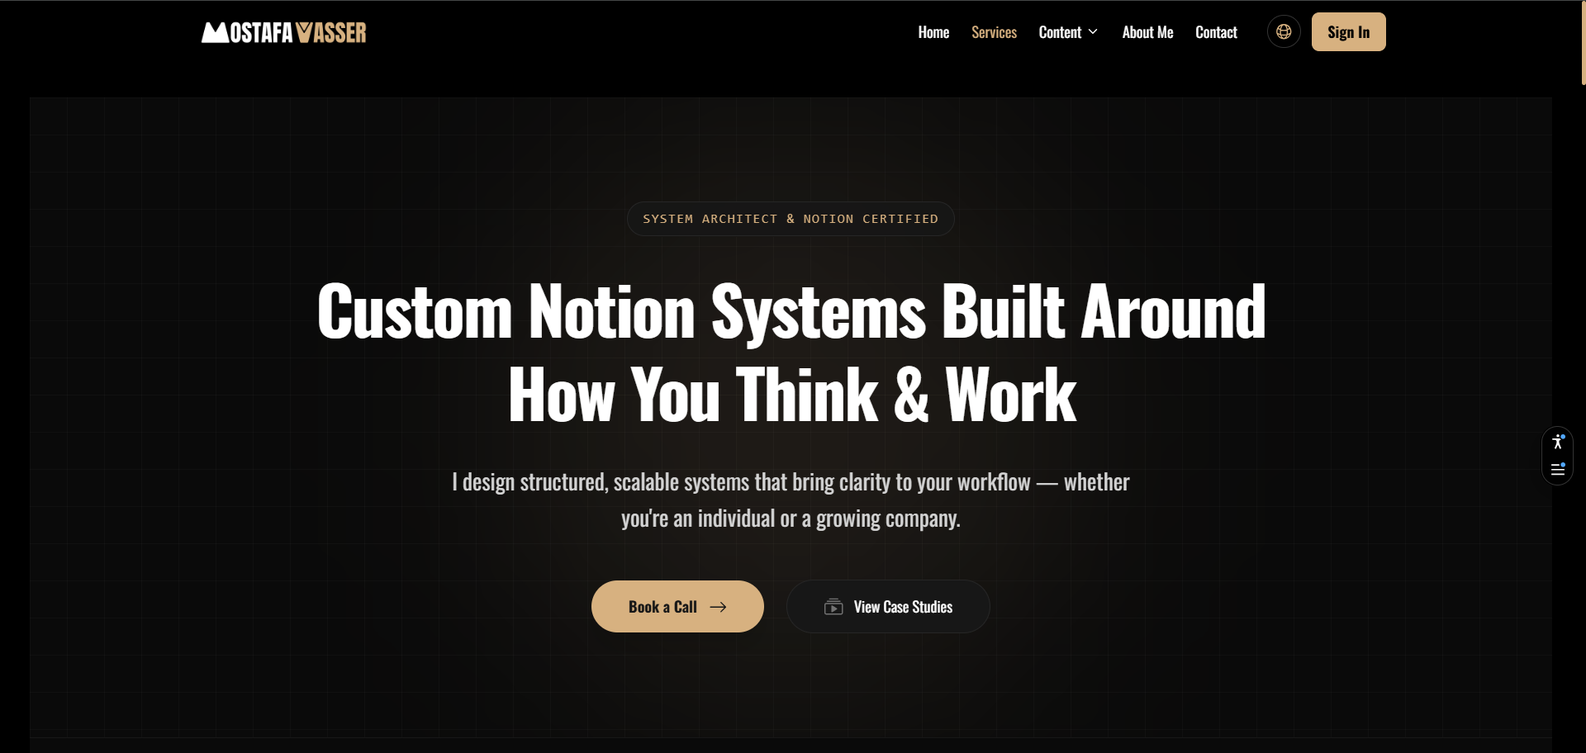
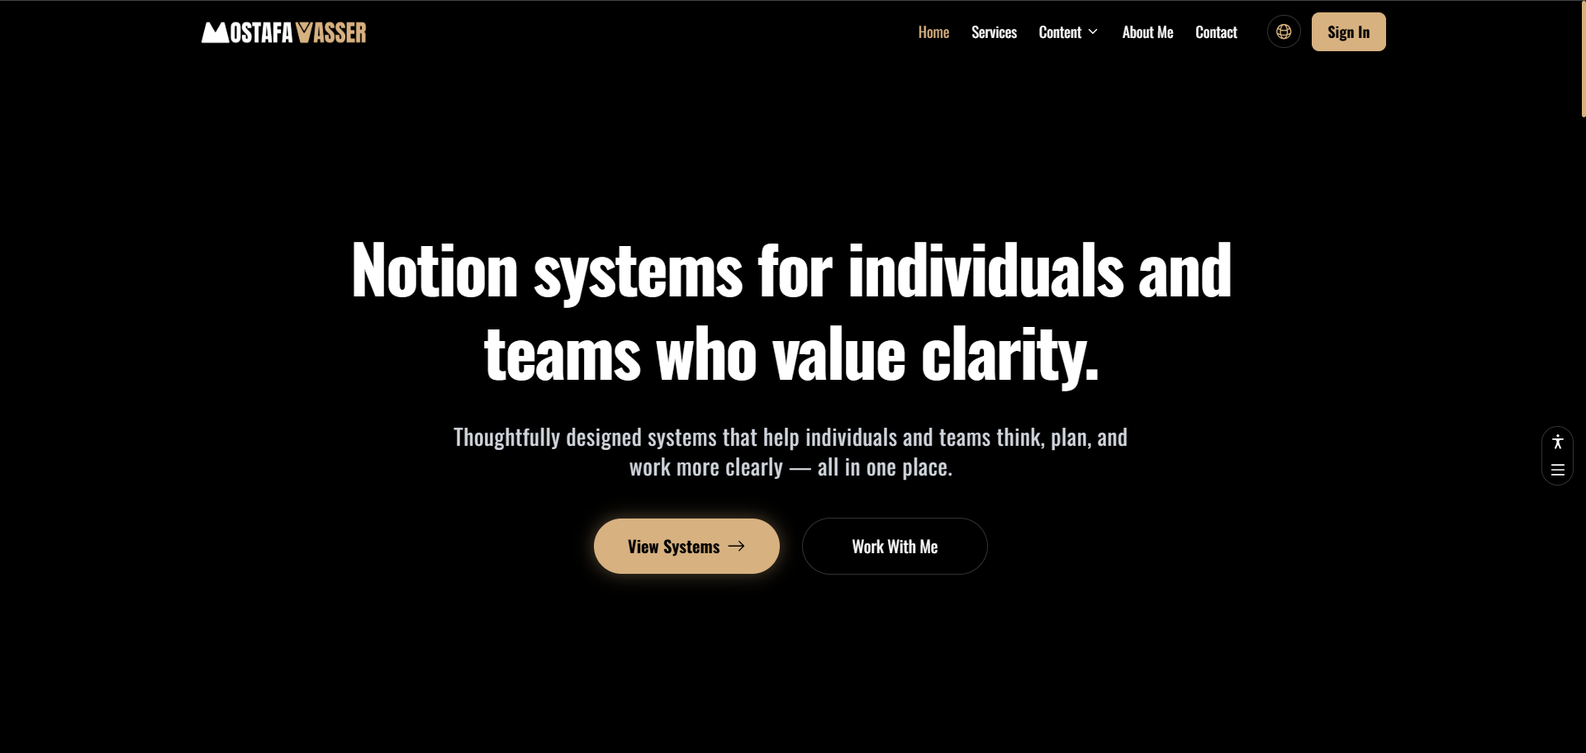
feat: enhance project detail styling, update project data content, and refine homepage layout

Changed region(s): [[0.1875, 0.2763, 0.8125, 0.8596], [0.5625, 0.0307, 0.6562, 0.0614]]

diff --git a/frontend/app/projects/projectsData.js b/frontend/app/projects/projectsData.js
@@ -10,10 +10,10 @@ export const projects = [
         description:
             'تصميم وتطوير صفحة هبوط مؤقتة لجمع بيانات الطلاب المهتمين (الاسم، البريد الإلكتروني، رقم الهاتف) حتى يتم إطلاق الموقع الرسمي، مع مزامنة هذه البيانات لحظياً مع قاعدة بيانات Notion.',
         tags: ['تطوير ويب', 'Notion API', 'تعليم'],
-        color: 'from-emerald-500/10 to-teal-500/5',
-        accent: 'bg-emerald-500',
-        accentText: 'text-emerald-600 dark:text-emerald-400',
-        accentBorder: 'border-emerald-200 dark:border-emerald-500/20',
+        color: 'from-primary-500/10 to-orange-500/5',
+        accent: 'bg-primary-500',
+        accentText: 'text-primary-600 dark:text-orange-400',
+        accentBorder: 'border-primary-200 dark:border-orange-500/20',
         images: [
             '/projects/YuYan Academy/Contact Form.png',
             '/projects/YuYan Academy/Notion DB.png',
@@ -48,10 +48,10 @@ export const projects = [
         description:
             'تطوير معرض أعمال (Portfolio) تعرض خدمات تطوير المواقع، متصلة بـ Notion API لاستقبال طلبات العملاء.',
         tags: ['تطوير ويب', 'Notion API', 'مستقل'],
-        color: 'from-blue-500/10 to-sky-500/5',
-        accent: 'bg-blue-500',
-        accentText: 'text-blue-600 dark:text-blue-400',
-        accentBorder: 'border-blue-200 dark:border-blue-500/20',
+        color: 'from-accent-500/10 to-primary-500/5',
+        accent: 'bg-primary-500',
+        accentText: 'text-primary-600 dark:text-orange-400',
+        accentBorder: 'border-primary-200 dark:border-orange-500/20',
         images: [
             '/projects/Personal Portfolio/HeroSection.png',
             '/projects/Personal Portfolio/Contact Form.png',
@@ -78,6 +78,25 @@ export const projects = [
 - **تحكم فوري:** يمنحك سرعة هائلة في متابعة استفسارات العملاء والتواصل معهم فوراً.
 
 يضمن هذا الربط كفاءة عالية وتوفير وقت هائل لأي فرد أو فريق عمل!
+
+---
+
+## البنية التحتية والتقنيات (The Engine)
+
+هذا الموقع ليس مجرد واجهة بصرية، بل هو بنية هندسية متكاملة صُممت لتقديم أداء فائق وتجربة مستخدم غامرة، تجمع بين منطق الـ Backend المعقد والإبداع في الـ Frontend.
+
+### الواجهة الأمامية وتجربة المستخدم (Frontend & UX)
+- **Next.js (App Router):** نعتمد على أحدث معمارية من Next.js لضمان توجيه ديناميكي سريع (Routing) واستخدام تقنيات SSR و ISR لتقديم المحتوى بأقصى سرعة ممكنة مع تحسين محركات البحث (SEO).
+- **TypeScript:** نستخدم TypeScript لضمان أمان البيانات (Type-safety) وتقليل الأخطاء البرمجية، مما يجعل الكود قابلاً للتوسع والصيانة طويلة الأمد.
+- **Tailwind CSS & Framer Motion:** مزيج القوة والمرونة؛ بناء واجهات رشيقة مع حركات سلسة (Fluid Animations) تعزز التفاعل دون التأثير على سرعة التحميل.
+
+### الإبداع الرقمي والـ 3D (Creative Web)
+- **Three.js & WebGL:** دمج العناصر ثلاثية الأبعاد التفاعلية في قلب المتصفح، مما يسمح بخلق تجارب بصرية غامرة (مثل مشروع Interactive Galaxy) تخرج عن نمط الويب التقليدي.
+
+### الخلفية البرمجية والبيانات (Backend & Infrastructure)
+- **Full-Stack Logic:** نعتمد على **Node.js** و **Express** لبناء جسور قوية بين واجهات الـ RESTful APIs وقواعد البيانات المتنوعة (**PostgreSQL** للبيانات المنظمة و **MongoDB** للمرونة).
+- **Database to Pixels Efficiency:** فلسفتنا تركز على كفاءة نقل البيانات من قاعدة البيانات وصولاً إلى الشاشة (Pixel)، مع تحسين دائم لاستجابة الخادم (TTFB) وسهولة الوصول (Accessibility).
+- **Infrastructure:** نستخدم **Vercel** للنشر السحابي السريع، و **Docker** لضمان بيئة تطوير متسقة، مع إدارة صارمة للإصدارات عبر **Git/Linux**.
 `
     },
     {
@@ -90,10 +109,10 @@ export const projects = [
         title: 'منصة شخصية لبيع القوالب وخدمات نوشن (Notion)',
         description: 'بناء منصة متكاملة لخبير بناء أنظمة نوشن، مزودة ببوابة دخول للعملاء وربط مباشر لاستفساراتهم بنظام إدارة العملاء الداخلي.',
         tags: ['استشارات', 'Notion API', 'بوابة عملاء'],
-        color: 'from-blue-500/10 to-indigo-500/5',
-        accent: 'bg-indigo-500',
-        accentText: 'text-indigo-600 dark:text-indigo-400',
-        accentBorder: 'border-indigo-200 dark:border-indigo-500/20',
+        color: 'from-primary-500/10 to-accent-500/5',
+        accent: 'bg-primary-500',
+        accentText: 'text-primary-600 dark:text-orange-400',
+        accentBorder: 'border-primary-200 dark:border-orange-500/20',
         images: [
             '/projects/Personal Portfolio - 2/HeroSection.png',
             '/projects/Personal Portfolio - 2/Contact Form.png',
@@ -120,7 +139,26 @@ export const projects = [
 - **تسجيل الدخول (Sign In):** مزامنة بيانات تسجيل الدخول وتوثيقها لتسهيل المتابعة والإدارة بسلاسة.
 - **توفير الوقت والجهد:** إلغاء الحاجة لنسخ ولصق البيانات يدوياً بفضل الأتمتة الكاملة للتدفق بين الموقع ومساحة العمل الخاصة بالعميل.
 
-يعد هذا النظام حلاً مثالياً للمستقلين الذين يبحثون عن مركز عمليات (CRM) سهل ومباشر يعتمد بالكامل على Notion.`
+يعد هذا النظام حلاً مثالياً للمستقلين الذين يبحثون عن مركز عمليات (CRM) سهل ومباشر يعتمد بالكامل على Notion.
+
+---
+
+## فلسفة البناء الهندسي (Architecture & Systems)
+
+تم بناء منصة **mostafayasser.com** لتكون أكثر من مجرد موقع شخصي؛ إنها نظام تشغيل متكامل (Operating System) مصمم لتحويل الزوار إلى عملاء دائمين من خلال تجربة تقنية فائقة الدقة.
+
+### الأداء والمعمارية (Architecture & Performance)
+- **Next.js & TypeScript:** اخترنا هذه المعمارية لضمان أقصى درجات السرعة والتجاوب (Core Web Vitals). استخدام TypeScript يضمن استقرار النظام الهندسي أثناء معالجة بيانات القوالب والطلبات المعقدة.
+- **التصميم البسيط (Minimalist UI):** الكود مصمم ليتبع فلسفة "الإنتاجية الهادئة"، مع التركيز على سرعة التنقل (Seamless Navigation) والوضوح البصري الذي يعكس هوية **Mostafa Yasser**.
+
+### أدوات الإنتاجية المدمجة (Integrated Productivity Tools)
+- **React-based Utilities:** قمنا ببرمجة أدوات إنتاجية مخصصة داخل الموقع، مثل **مؤقت بومودورو (Pomodoro Timer)** المتكامل، لتعزيز القيمة المضافة للزوار وربطهم بالأدوات التي يروج لها الموقع.
+- **E-commerce Logic:** الكود يدير رحلة المستخدم برمجياً من قراءة المقالات (Blog) وصولاً إلى شراء القوالب (Templates) بسلاسة تامة، مع معالجة ذكية للتوزيع والتحميل.
+
+### تكامل الأنظمة والتوسع (Ecosystem Scalability)
+- **Deep Notion API Integration:** يكمن التحدي الهندسي في هذا المشروع في محاكاة "تجربة نوشن" داخل بيئة ويب مخصصة. قمنا ببرمجة روابط ذكية تدير قواعد البيانات، علاقات المهام، وأتمتة العمليات (Workflows) للأفراد والفرق بشكل لحظي.
+- **Backend & Auth:** نستخدم **Auth.js** لضمان دخول آمن وموثوق، مع قاعدة بيانات (**PostgreSQL/MongoDB**) لمتابعة إحصائيات الأداء الداخلية وتحسين مسارات التحويل (Conversion Paths) بشكل مستمر.
+`
     },
     {
         id: 'resaltk',
@@ -133,10 +171,10 @@ export const projects = [
         description:
             'نظام مركزي لإدارة مهام وأفكار واجتماعات ومستندات تطوير تطبيق موجه لطلاب الماجستير والدكتوراه والباحثين.',
         tags: ['إدارة مشاريع', 'لوحة تحكم', 'أتمتة'],
-        color: 'from-violet-500/10 to-purple-500/5',
-        accent: 'bg-violet-500',
-        accentText: 'text-violet-600 dark:text-violet-400',
-        accentBorder: 'border-violet-200 dark:border-violet-500/20',
+        color: 'from-primary-500/15 to-orange-500/5',
+        accent: 'bg-primary-600',
+        accentText: 'text-primary-600 dark:text-orange-400',
+        accentBorder: 'border-primary-300 dark:border-orange-500/20',
         images: [
             '/projects/Resaltk/Dashboard.webp',
             '/projects/Resaltk/9.webp',
@@ -271,10 +309,10 @@ export const projects = [
         description:
             'لوحة تحكم مخصصة تعتمد على ربط مباشر بأسعار الذهب وحساب الأرباح ونسبة العائد تلقائيًا.',
         tags: ['مالية', 'تتبع الاستثمارات', 'تقارير'],
-        color: 'from-amber-500/10 to-yellow-500/5',
-        accent: 'bg-amber-500',
-        accentText: 'text-amber-600 dark:text-amber-400',
-        accentBorder: 'border-amber-200 dark:border-amber-500/20',
+        color: 'from-orange-500/10 to-amber-500/5',
+        accent: 'bg-primary-500',
+        accentText: 'text-primary-600 dark:text-orange-400',
+        accentBorder: 'border-primary-200 dark:border-orange-500/20',
         images: [
             '/projects/Gold Tracker/Dashboard.webp',
         ],
@@ -341,10 +379,10 @@ export const projects = [
         description:
             'نظام متكامل يربط المشاريع، العملاء، التصميم، المالية، المبيعات، الموارد البشرية، والتسويق في لوحة تحكم مركزية واحدة.',
         tags: ['تصميم', 'إدارة العملاء', 'إبداع'],
-        color: 'from-rose-500/10 to-pink-500/5',
-        accent: 'bg-rose-500',
-        accentText: 'text-rose-600 dark:text-rose-400',
-        accentBorder: 'border-rose-200 dark:border-rose-500/20',
+        color: 'from-primary-500/10 to-accent-500/5',
+        accent: 'bg-primary-500',
+        accentText: 'text-primary-600 dark:text-orange-400',
+        accentBorder: 'border-primary-200 dark:border-orange-500/20',
         images: [
             '/projects/Trend Design/11.webp',
             '/projects/Trend Design/12.webp',

diff --git a/frontend/app/projects/[slug]/ProjectDetailClient.js b/frontend/app/projects/[slug]/ProjectDetailClient.js
@@ -3,6 +3,7 @@
 import { useState } from 'react';
 import Image from 'next/image';
 import Link from 'next/link';
+import { motion, AnimatePresence } from 'framer-motion';
 import { ChevronRight, ExternalLink, Briefcase, Calendar, X, ChevronLeft } from 'lucide-react';
 import Footer from '../../../components/Footer';
 import ReactMarkdown from 'react-markdown';
@@ -43,15 +44,26 @@ function LightboxModal({ project, initialIndex, onClose }) {
                 )}
 
                 <div className="relative flex-1 flex flex-col items-center">
-                    <Image
-                        src={images[current]}
-                        alt={`${project.name} — صورة ${current + 1}`}
-                        width={1200}
-                        height={800}
-                        className="w-full h-auto rounded-xl object-contain max-h-[85vh] shadow-[0_0_50px_rgba(0,0,0,0.5)] border border-white/10"
-                        quality={90}
-                        unoptimized
-                    />
+                    <AnimatePresence mode="wait">
+                        <motion.div
+                            key={current}
+                            initial={{ opacity: 0 }}
+                            animate={{ opacity: 1 }}
+                            exit={{ opacity: 0 }}
+                            transition={{ duration: 0.4, ease: "easeInOut" }}
+                            className="w-full flex justify-center"
+                        >
+                            <Image
+                                src={images[current]}
+                                alt={`${project.name} — صورة ${current + 1}`}
+                                width={1200}
+                                height={800}
+                                className="w-full h-auto rounded-xl object-contain max-h-[85vh] shadow-[0_0_50px_rgba(0,0,0,0.5)] border border-white/10"
+                                quality={90}
+                                unoptimized
+                            />
+                        </motion.div>
+                    </AnimatePresence>
                     {total > 1 && (
                         <div className="absolute -bottom-8 left-1/2 -translate-x-1/2 flex gap-2">
                             {images.map((_, idx) => (
@@ -76,7 +88,7 @@ function LightboxModal({ project, initialIndex, onClose }) {
                     </button>
                 )}
             </div>
-        </div>
+        </div >
     );
 }
 
@@ -96,19 +108,30 @@ function ProjectImageSlider({ images, projectName, onImageClick }) {
     if (!images || images.length === 0) return null;
 
     return (
-        <div className="relative w-full aspect-video rounded-3xl overflow-hidden border border-gray-200 dark:border-dark-card-border shadow-lg group">
+        <div className="relative w-full rounded-3xl overflow-hidden border border-gray-200 dark:border-dark-card-border shadow-lg group bg-white dark:bg-dark-secondary">
             {/* Main Image */}
             <div
-                className="relative w-full h-full cursor-zoom-in"
+                className="relative w-full cursor-zoom-in"
                 onClick={() => onImageClick(current)}
             >
-                <Image
-                    src={images[current]}
-                    alt={`${projectName} - slide ${current + 1}`}
-                    fill
-                    className="object-cover transition-all duration-500"
-                    unoptimized
-                />
+                <AnimatePresence mode="wait">
+                    <motion.div
+                        key={current}
+                        initial={{ opacity: 0 }}
+                        animate={{ opacity: 1 }}
+                        exit={{ opacity: 0 }}
+                        transition={{ duration: 0.4, ease: "easeInOut" }}
+                    >
+                        <Image
+                            src={images[current]}
+                            alt={`${projectName} - slide ${current + 1}`}
+                            width={1200}
+                            height={800}
+                            className="w-full h-auto"
+                            unoptimized
+                        />
+                    </motion.div>
+                </AnimatePresence>
             </div>
 
             {/* Navigation Arrows */}
@@ -182,21 +205,26 @@ export default function ProjectDetailClient({ project }) {
                 <span>{children}</span>
             </li>
         ),
-        strong: ({ children }) => <strong className="font-bold text-accent-900 dark:text-white bg-primary-50/50 dark:bg-orange-500/10 px-1 rounded">{children}</strong>,
+        strong: ({ children }) => <strong className={`font-bold text-accent-900 dark:text-white ${project.accent.replace('bg-', 'bg-')}/10 dark:${project.accent.replace('bg-', 'bg-')}/20 px-1 rounded`}>{children}</strong>,
         hr: () => <hr className="my-10 border-gray-200 dark:border-dark-card-border border-dashed" />,
     };
 
     return (
-        <main className="min-h-screen bg-secondary-50 dark:bg-dark-primary transition-colors duration-300" dir="rtl">
+        <main className="min-h-screen bg-white dark:bg-dark-primary transition-colors duration-300" dir="rtl">
             {lightbox !== null && (
                 <LightboxModal project={project} initialIndex={lightbox} onClose={() => setLightbox(null)} />
             )}
 
-            {/* Hero Section */}
-            <section className="relative overflow-hidden py-12 sm:py-16 lg:py-20 px-4 sm:px-6 lg:px-8 border-b border-gray-200 dark:border-dark-card-border">
-                {/* Background Gradients */}
-                <div className="absolute inset-0 bg-gradient-to-br from-white via-white to-secondary-50/50 dark:from-dark-secondary dark:via-dark-secondary dark:to-dark-primary" />
-                <div className={`absolute top-0 right-0 w-full h-full bg-gradient-to-br ${project.color} opacity-50 dark:opacity-20`} />
+            <section className="relative overflow-hidden py-16 sm:py-20 lg:py-24 px-4 sm:px-6 lg:px-8 border-b border-gray-100 dark:border-dark-card-border/50">
+                {/* Background Components */}
+                <div className="absolute inset-0 bg-gradient-to-br from-white via-secondary-50/30 to-white dark:from-dark-primary dark:via-dark-primary dark:to-dark-secondary" />
+                <div className={`absolute top-0 right-0 w-full h-full bg-gradient-to-br ${project.color} opacity-[0.4] dark:opacity-[0.15]`} />
+
+                {/* Subtle Grid Pattern (Consistent with Homepage) */}
+                <div className="absolute inset-0 opacity-[0.015] dark:opacity-[0.04]" style={{
+                    backgroundImage: `radial-gradient(circle at 1px 1px, rgba(0,0,0,0.3) 1px, transparent 0)`,
+                    backgroundSize: '24px 24px'
+                }}></div>
 
                 <div className="container-custom relative z-10">
                     <div className="max-w-4xl">
@@ -244,7 +272,7 @@ export default function ProjectDetailClient({ project }) {
             </section>
 
             {/* Main Content Area */}
-            <section className="py-12 sm:py-16 md:py-20 px-4 sm:px-6 lg:px-8 relative">
+            <section className="py-16 sm:py-20 md:py-24 px-4 sm:px-6 lg:px-8 relative bg-secondary-50/50 dark:bg-dark-primary">
                 <div className="container-custom grid grid-cols-1 lg:grid-cols-[1fr_380px] gap-10 lg:gap-16 items-start">
 
                     {/* Left Column: Markdown Content & Images */}
@@ -305,22 +333,27 @@ export default function ProjectDetailClient({ project }) {
                         </div>
 
                         {/* Sidebar CTA */}
-                        <div className={`bg-gradient-to-br ${project.color} border ${project.accentBorder} p-6 sm:p-8 rounded-3xl shadow-sm text-center bg-white/60 dark:bg-dark-secondary/60 backdrop-blur-sm`}>
-                            <div className={`w-12 h-12 rounded-2xl ${project.accent} flex items-center justify-center mx-auto mb-4 text-white shadow-md`}>
-                                <Briefcase className="w-6 h-6" />
+                        <div className={`relative overflow-hidden border ${project.accentBorder} p-8 rounded-3xl shadow-xl dark:shadow-dark-medium text-center bg-white dark:bg-dark-secondary`}>
+                            {/* Subtle Background Accent */}
+                            <div className={`absolute inset-0 bg-gradient-to-br ${project.color} opacity-40 dark:opacity-10`} />
+
+                            <div className="relative z-10">
+                                <div className={`w-14 h-14 rounded-2xl ${project.accent} flex items-center justify-center mx-auto mb-6 text-white shadow-lg`}>
+                                    <Briefcase className="w-7 h-7" />
+                                </div>
+                                <h3 className="text-xl sm:text-2xl font-bold text-accent-900 dark:text-white mb-4">
+                                    هل تحتاج إلى نظام مشابه؟
+                                </h3>
+                                <p className="text-base text-accent-600 dark:text-dark-text-secondary leading-relaxed mb-8 font-medium">
+                                    نستطيع تصميم مساحة عمل مخصصة بالكامل تناسب احتياجات فريقك كأنها بنيت خصيصاً لك.
+                                </p>
+                                <Link
+                                    href="/consultation"
+                                    className={`flex items-center justify-center gap-2 w-full py-4 rounded-xl ${project.accent} text-white font-bold shadow-lg hover:shadow-xl hover:-translate-y-1 transition-all duration-300 text-lg`}
+                                >
+                                    احجز استشارة مجانية
+                                </Link>
                             </div>
-                            <h3 className="text-xl font-bold text-accent-900 dark:text-white mb-3">
-                                هل تحتاج إلى نظام مشابه؟
-                            </h3>
-                            <p className="text-sm text-accent-600 dark:text-dark-text-secondary leading-relaxed mb-6">
-                                نستطيع تصميم مساحة عمل مخصصة بالكامل تناسب احتياجات فريقك كأنها بنيت خصيصاً لك.
-                            </p>
-                            <Link
-                                href="/consultation"
-                                className={`flex items-center justify-center gap-2 w-full py-3.5 rounded-xl ${project.accent} text-white font-bold shadow-md hover:shadow-lg hover:-translate-y-0.5 transition-all duration-300`}
-                            >
-                                احجز استشارة مجانية
-                            </Link>
                         </div>
                     </aside>
 

diff --git a/frontend/app/page.js b/frontend/app/page.js
@@ -617,6 +617,7 @@ export default function HomePage() {
 
 
       {/* Testimonials */}
+      {/* 
       <section className="section-reveal py-12 sm:py-16 md:py-20 lg:py-24 bg-white dark:bg-dark-secondary transition-colors duration-300" data-reveal-section>
         <div className="container-custom">
           <div className="grid gap-8 lg:grid-cols-[minmax(0,0.85fr)_minmax(0,1.15fr)] items-start">
@@ -658,9 +659,10 @@ export default function HomePage() {
           </div>
         </div>
       </section>
+      */}
 
       {/* FAQ Section */}
-      <section className="section-reveal py-12 sm:py-16 md:py-20 lg:py-24 bg-secondary-50 dark:bg-dark-primary transition-colors duration-300" data-reveal-section>
+      <section className="section-reveal py-12 sm:py-16 md:py-20 lg:py-24 bg-white dark:bg-dark-secondary transition-colors duration-300" data-reveal-section>
         <div className="container-custom">
           <div className="grid gap-8 lg:grid-cols-[minmax(0,0.9fr)_minmax(0,1.1fr)] items-start">
             <div className="text-center lg:text-right lg:sticky lg:top-24 self-start">
